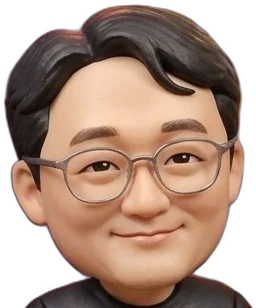
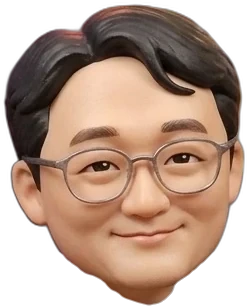
배너 캐릭터 목·정장 다시 그림

diff --git a/docs/index.html b/docs/index.html
@@ -242,13 +242,11 @@ footer ul{margin:0 0 16px;padding-left:18px}
 .hb-sub{font-size:16px;color:#d6e4ff}
 .hb-chips{display:flex;gap:8px;flex-wrap:wrap;margin-top:16px}
 .hb-chips span{font-size:12px;font-weight:600;padding:5px 11px;border-radius:99px;background:rgba(10,26,54,.75);border:1px solid rgba(255,255,255,.22);backdrop-filter:blur(2px)}
-.hb-char{position:absolute;right:56px;bottom:0;width:230px;height:230px;z-index:2;transform:scale(.5);transform-origin:50% 100%}
+.hb-char{position:absolute;right:56px;bottom:0;width:230px;height:230px;z-index:2;transform:scale(.46);transform-origin:50% 100%}
 .hb-char .glow{position:absolute;left:50%;bottom:10px;width:250px;height:250px;transform:translateX(-50%);border-radius:50%;background:radial-gradient(circle,rgba(255,207,92,.32),rgba(255,207,92,0) 65%)}
-.hb-char .suit{position:absolute;left:50%;bottom:-2px;transform:translateX(-50%);width:230px}
-.hb-char .head{position:absolute;left:50%;bottom:58px;transform:translateX(-50%);width:132px;filter:drop-shadow(0 6px 14px rgba(0,0,0,.4))}
+.hb-char .bust{position:absolute;left:50%;bottom:-2px;transform:translateX(-50%);width:230px;filter:drop-shadow(0 6px 14px rgba(0,0,0,.35))}
 .hb-bubble{position:absolute;right:250px;top:118px;z-index:3;background:#fff;color:#0b1b3a;font-size:13px;font-weight:700;padding:9px 14px;border-radius:14px;box-shadow:0 6px 18px rgba(0,0,0,.25)}
 .hb-bubble:after{content:"";position:absolute;right:-8px;top:12px;border:8px solid transparent;border-left-color:#fff;border-right:0}
-.hb-plate{position:absolute;right:136px;bottom:10px;z-index:3;font-size:11px;font-weight:700;letter-spacing:.06em;background:#ffcf5c;color:#0b1b3a;padding:3px 10px;border-radius:6px}
 @media(max-width:640px){
   .hero-banner{height:170px;border-radius:14px}
   .hb-text{padding:20px 18px;max-width:66%}
@@ -256,12 +254,10 @@ footer ul{margin:0 0 16px;padding-left:18px}
   .hb-title{font-size:30px}
   .hb-sub{font-size:12px}
   .hb-chips,.hb-bubble{display:none}
-  .hb-char{right:-14px;width:150px;height:170px;transform:scale(.54)}
-  .hb-char .suit{width:150px}
-  .hb-char .head{width:86px;bottom:38px}
-  .hb-char .glow{width:170px;height:170px}
-  .hb-plate{right:32px;bottom:6px;font-size:10px}
-}
+  .hb-char{right:-14px;width:150px;height:170px;transform:scale(.5)}
+  .hb-char .bust{width:150px}
+    .hb-char .glow{width:170px;height:170px}
+  }
 </style>
 <link rel="preconnect" href="https://fonts.googleapis.com"><link href="https://fonts.googleapis.com/css2?family=Noto+Serif+KR:wght@900&display=swap&text=%E7%94%B3%EC%9D%98%20%EC%84%A0%ED%83%9D" rel="stylesheet">
 </head>
@@ -285,17 +281,33 @@ footer ul{margin:0 0 16px;padding-left:18px}
   <div class="hb-bubble">오늘도 원칙대로 갑니다</div>
   <div class="hb-char">
     <div class="glow"></div>
-    <svg class="suit" viewBox="0 0 250 120" aria-hidden="true">
-      <path d="M20,120 C24,70 60,42 100,34 L150,34 C190,42 226,70 230,120 Z" fill="#1d2a44"/>
-      <path d="M100,34 L125,96 L150,34 Z" fill="#f4f6fa"/>
-      <path d="M118,40 L132,40 L136,52 L130,98 L125,106 L120,98 L114,52 Z" fill="#c8102e"/>
-      <path d="M118,40 L132,40 L129,50 L121,50 Z" fill="#9e0c24"/>
-      <path d="M100,34 L86,40 L112,104 L125,96 Z" fill="#2a3a5c"/>
-      <path d="M150,34 L164,40 L138,104 L125,96 Z" fill="#2a3a5c"/>
+    <svg class="bust" viewBox="0 0 240 250" role="img" aria-label="주인장 캐릭터">
+      <defs>
+        <linearGradient id="hbneck" x1="0" x2="0" y1="0" y2="1"><stop offset="0" stop-color="#b98365"/><stop offset=".45" stop-color="#d9a585"/><stop offset="1" stop-color="#e3b393"/></linearGradient>
+        <linearGradient id="hbsuit" x1="0" x2="0" y1="0" y2="1"><stop offset="0" stop-color="#26365a"/><stop offset="1" stop-color="#141f38"/></linearGradient>
+        <linearGradient id="hbtie" x1="0" x2="1"><stop offset="0" stop-color="#a50d26"/><stop offset=".5" stop-color="#d4183a"/><stop offset="1" stop-color="#a50d26"/></linearGradient>
+      </defs>
+      <!-- neck (behind chin) -->
+      <path d="M97,140 C99,158 98,172 95,186 L161,186 C158,172 157,158 159,140 Z" fill="url(#hbneck)"/>
+      <path d="M97,162 C114,174 142,174 159,162 L159,146 C142,160 114,160 97,146 Z" fill="#8a5a42" opacity=".35"/>
+      <!-- suit body -->
+      <path d="M8,250 C10,214 34,190 72,180 L100,174 L128,212 L156,174 L184,180 C222,190 232,214 232,250 Z" fill="url(#hbsuit)"/>
+      <!-- shirt -->
+      <path d="M100,174 L128,236 L156,174 L150,170 L128,200 L106,170 Z" fill="#eef2f8"/>
+      <!-- tie -->
+      <path d="M121,196 L135,196 L139,210 L134,246 L128,250 L122,246 L117,210 Z" fill="url(#hbtie)"/>
+      <path d="M120,186 L136,186 L134,198 L122,198 Z" fill="#8f0b20"/>
+      <!-- collar -->
+      <path d="M101,166 L120,186 L111,200 L94,178 Z" fill="#ffffff"/>
+      <path d="M155,166 L136,186 L145,200 L162,178 Z" fill="#ffffff"/>
+      <!-- lapels -->
+      <path d="M94,178 L72,180 L112,246 L126,232 L106,196 Z" fill="#33466e"/>
+      <path d="M162,178 L184,180 L144,246 L130,232 L150,196 Z" fill="#33466e"/>
+      <path d="M8,250 C10,214 34,190 72,180" fill="none" stroke="#3b5080" stroke-width="2" opacity=".6"/>
+      <path d="M232,250 C230,214 206,190 184,180" fill="none" stroke="#3b5080" stroke-width="2" opacity=".6"/>
+      <image href="assets/owner.webp" x="54" y="10" width="132" height="162.2"/>
     </svg>
-    <img class="head" src="assets/owner.webp" alt="주인장 캐릭터">
   </div>
-  <div class="hb-plate">주인장 申</div>
 </div>
 <header>
   <div>
